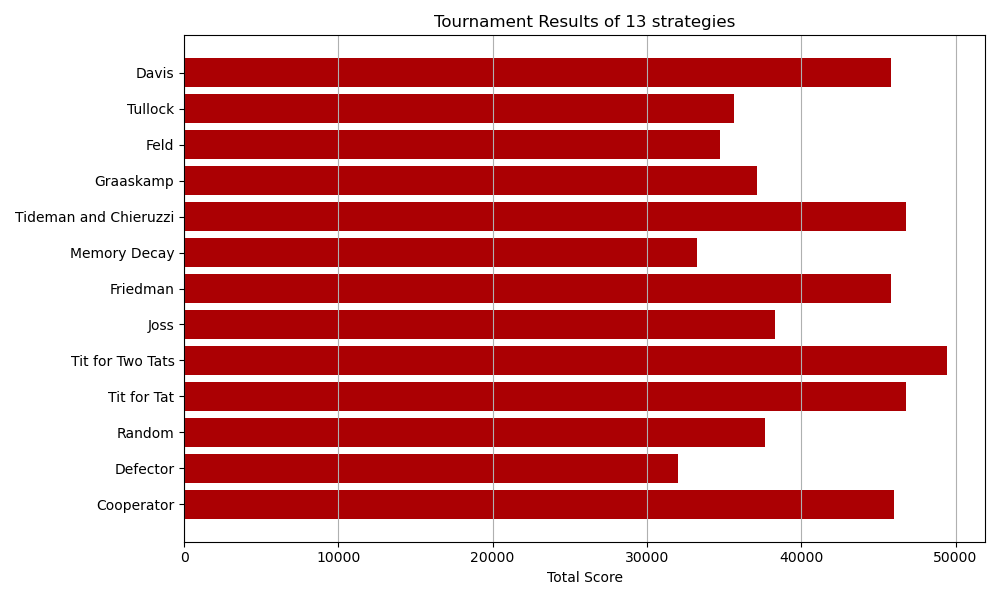
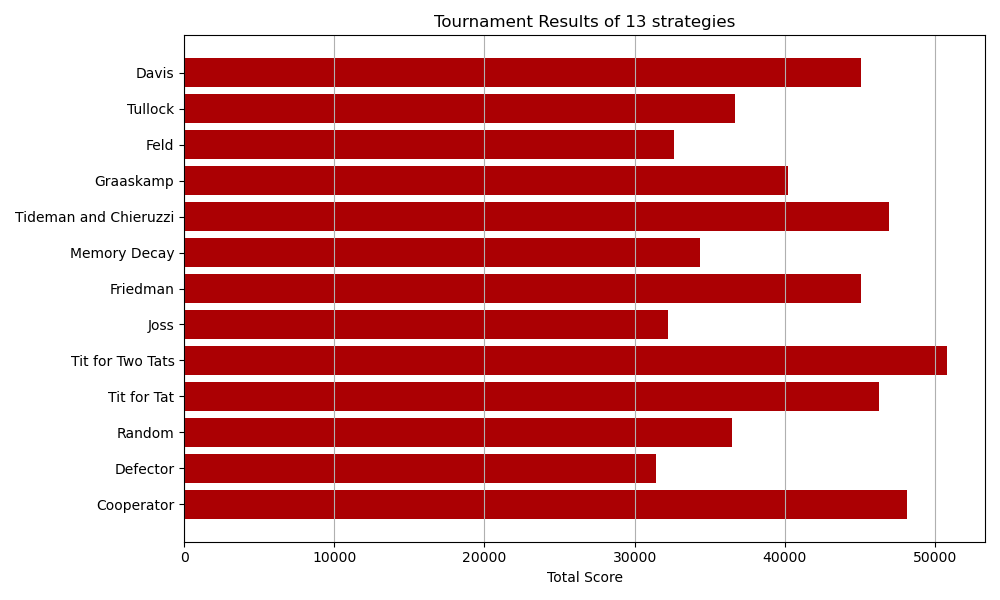
final update?

diff --git a/prisoners_dilemma.py b/prisoners_dilemma.py
@@ -56,7 +56,7 @@ def strat_joss(opponentMoveHistory=None, selfMoveHistory=None):
 
     # Introduce a small chance of doing the opposite of the opponent’s last move
     if random.random() < 0.1:
-        return "Defect" if opponentMoveHistory[-1] == "Cooperate" else "Cooperate"
+        return "Defect" if opponentMoveHistory[-1] == "Cooperate" else "Defect"
     
     # Otherwise, copy the opponent's last move
     return opponentMoveHistory[-1]
@@ -85,7 +85,7 @@ def strat_davis(opponentMoveHistory=None, selfMoveHistory=None):
     return "Cooperate"
 
 # Tit for tat the first 15 rounds. Calculate a net cooperation score where Cooperation: 1 and Defection: -2. If the net cooperation score (NCS) < 0, defect.
-# Also have a chance to alter the memory of the opponent's past moves and a change to delete the memory
+# Also have a chance to alter the memory of the opponent's past moves and a chance to delete the memory
 def strat_memoryDecay(opponentMoveHistory=None, selfMoveHistory=None):
     if opponentMoveHistory is None:
         opponentMoveHistory = []
@@ -125,7 +125,7 @@ def strat_memoryDecay(opponentMoveHistory=None, selfMoveHistory=None):
         else:
             return "Cooperate"
 
-# Defect first two moves. After the first two moves, alternate based on a probability that increases with opponent's cooperation
+# Cooperate first two moves. After the first two moves, alternate based on a probability that increases with opponent's cooperation
 def strat_tideman_chieruzzi(opponentMoveHistory, selfMoveHistory=None):
     round_num = len(opponentMoveHistory)
     num_rounds = 200
@@ -271,7 +271,7 @@ def strat_feld(opponentMoveHistory=None, selfMoveHistory=None):
         return "Defect"
 
     # Calculation of cooperation probability
-    prob_cooperate = max(1 - (round_num / 400), 0.5)
+    prob_cooperate = max(1 - (round_num / 200), 0.5)
 
     # Randomly choose to cooperate based on the calculated probability
     if random.random() < prob_cooperate:
@@ -367,7 +367,6 @@ def simulate_match(A_strategy, B_strategy, num_rounds):
 
     A_score = 0
     B_score = 0
-
     A_move_history = []
     B_move_history = []
 

diff --git a/README.md b/README.md
@@ -7,10 +7,8 @@ Allt skrivs i python. <br>
 För graferna som beskriver sannolikhet, Se till att NumPy och Matplotlib är installerade i din editor. Kan göras följande i en terminal:
 
 ``` bat
-
 python -m pip install numpy
 pip install matplotlib
-
 ```
 
 För de itererade spelen, se till att NumPy, Matplotlib och SciPy är installerade. Kan göras följande i en terminal:
@@ -19,14 +17,12 @@ För de itererade spelen, se till att NumPy, Matplotlib och SciPy är installera
 python -m pip install numpy
 pip install matplotlib
 pip install scipy
-
 ```
 
-För att återskapa spelet se till att PyGame är installerat. Kan göras följande i en terminal:
+För att återskapa spelet som ska visas på mässan, se till att PyGame är installerat. Kan göras följande i en terminal:
 
 ```bat
-
 pip install pygame
-
 ```
-Sedan är det bara att gå till önskad fil, som exempelvis huvudprogrammet. Se till att allt är installerat, kopiera kod och kör! Kontaka mig: axel.lampa@elev.ga.ntig.se
+
+Sedan är det bara att gå till önskad fil, som exempelvis huvudprogrammet. Se till att allt är installerat, kopiera kod och kör! Kontaka mig: <axel.lampa@elev.ga.ntig.se>
